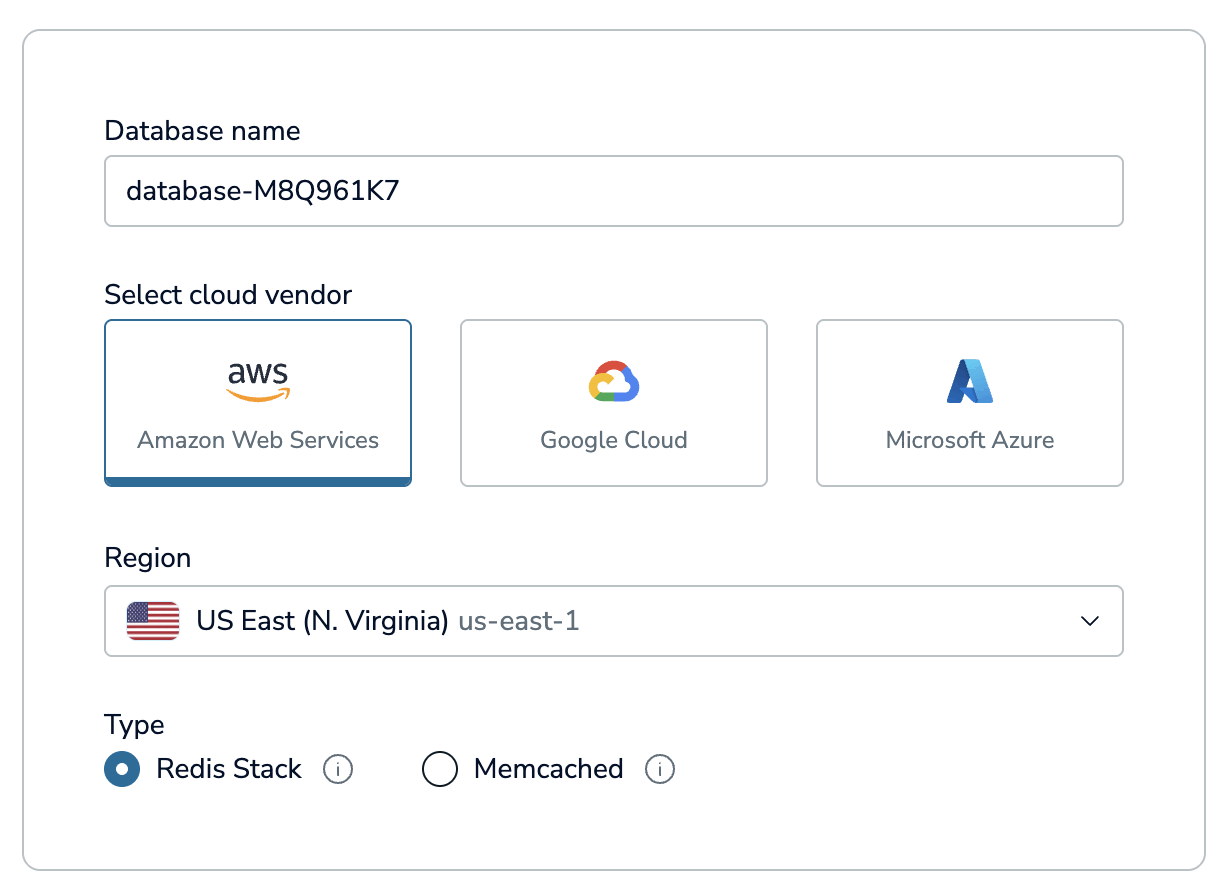
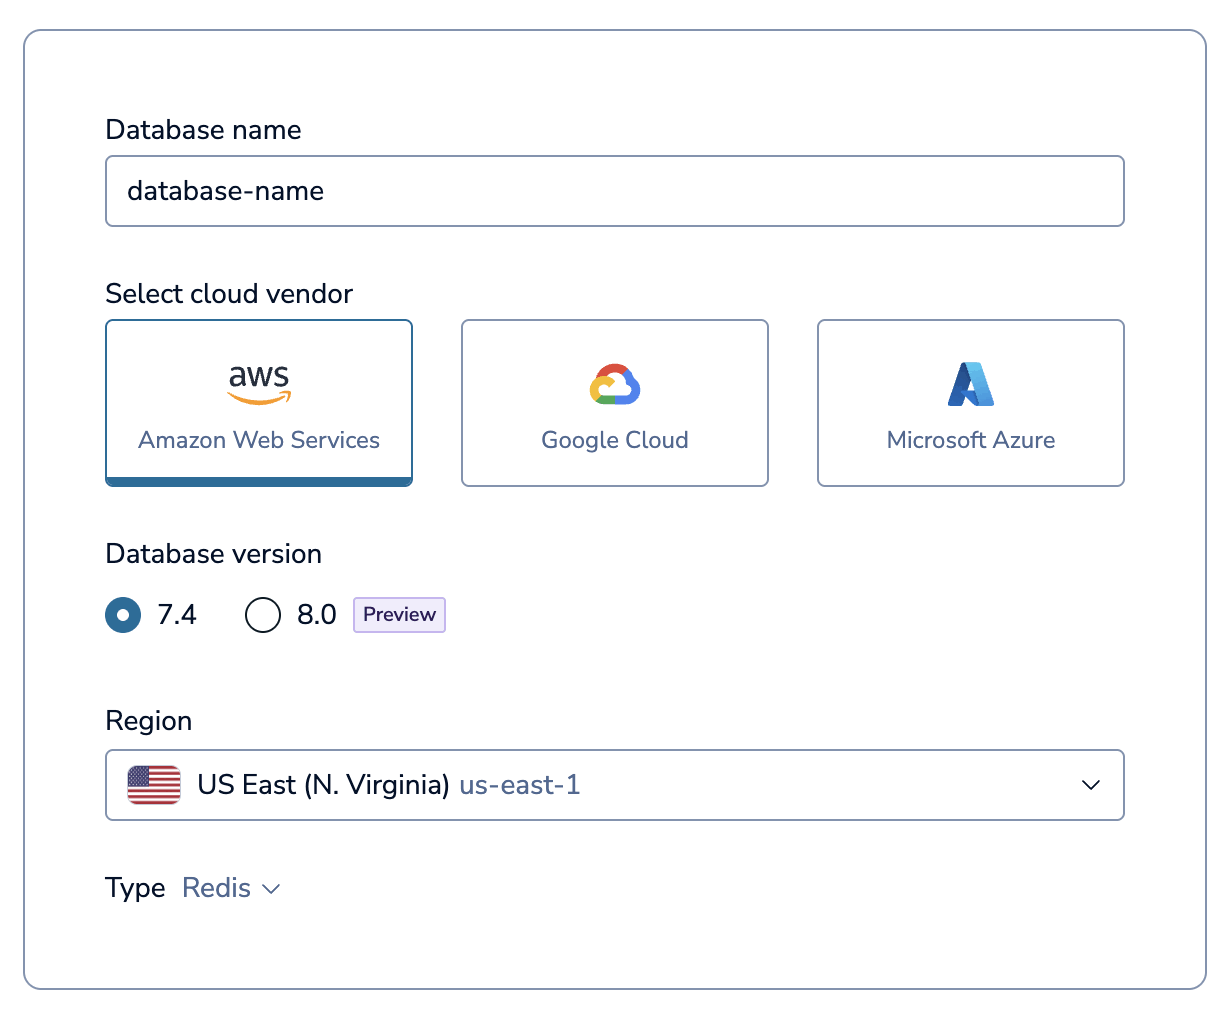
Changes to create essentials

diff --git a/content/operate/rc/databases/create-database/create-essentials-database.md b/content/operate/rc/databases/create-database/create-essentials-database.md
@@ -31,13 +31,21 @@ This guide shows how to create a paid Essentials database.
     
     After you select **Essentials**, the rest of the database details will appear.
 
-    {{<image filename="images/rc/create-database-essentials-cloud-vendor.png" alt="The database name, cloud vendor, region, and type settings.">}}
+    {{<image filename="images/rc/create-database-essentials-cloud-vendor.png" alt="The database name, cloud vendor, version, region, and type settings.">}}
 
 1. Redis will generate a database name for you. If you want to change it, you can do so in the **Database name** field.  
 
-1. Choose a **Cloud Provider** and a **Region**.
+1. Choose a **Cloud vendor** for your database.
 
-1. The **Type** of database controls the protocol and advanced capabilities. Leave this as **Redis Stack** unless you have a legacy application that uses **Memcached**.
+1. Select the **Database version** you want to use.
+
+    A preview of Redis 8.0 is available for databases in selected regions. Select **8.0** to use it.
+
+    Redis 8.0 introduces powerful new capabilities, including the beta release of the Vector Set data structure, designed for AI use cases such as semantic search and recommendation systems. For more information on the changes in Redis 8.0, see [What's new in Redis 8.0]({{<relref "/develop/whats-new/8-0" >}}) and review the [breaking changes]({{<relref "/operate/rc/changelog/version-release-notes/8-0" >}}).
+
+1. Choose a **Region** from the list.
+
+1. The **Type** of database controls the protocol and advanced capabilities. Leave this as **Redis** unless you have a legacy application that uses **Memcached**.
 
     A Redis Stack database gives access to a set of advanced capabilities. For more information, see [Advanced capabilities]({{< relref "/operate/rc/databases/configuration/advanced-capabilities#essentials" >}}).
 
